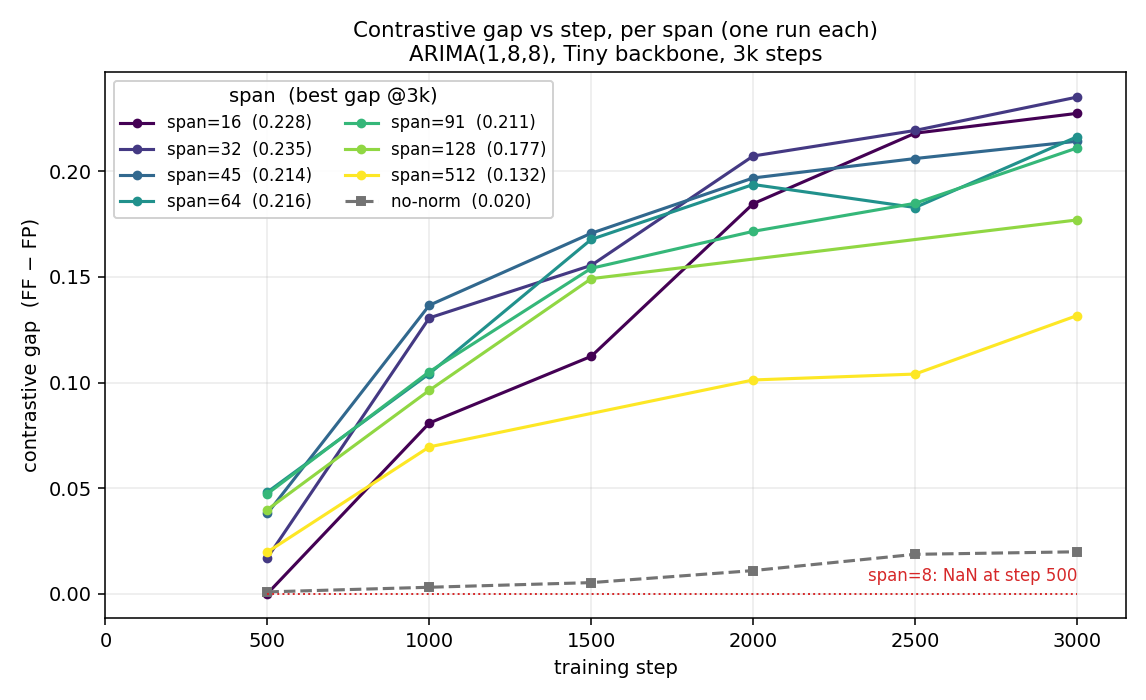
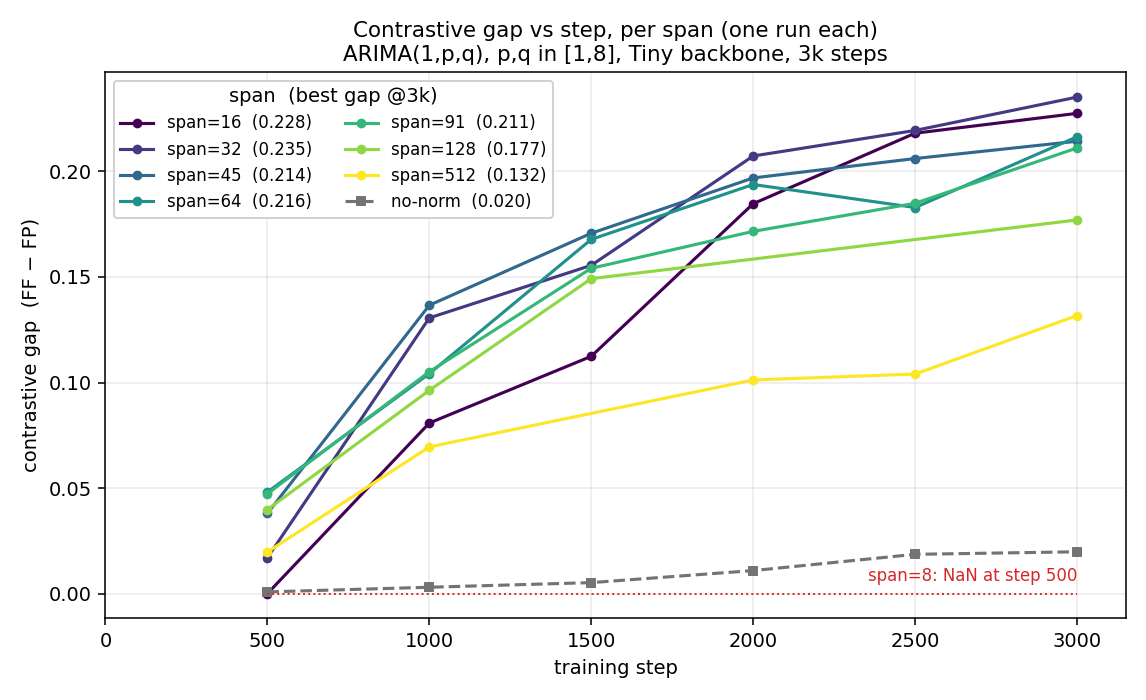
report(revnorm): correct span=8 NaN mechanism + winner framing (independent review)
The independent reviewer read src/norm.py and src/arma.py and caught
errors neither the rewrite nor my own read found:
- span=8 NaN is NOT "EMA variance collapse / divide-by-~0" (the std
  division is eps-clamped). True cause: inv_decay=1/decay overflows once
  decay=(1-a)^t underflows to 0 (t~2961 for span=8, inside T=4096);
  span=16 survives because its threshold t~5947 > 4096. Corrected in
  body, notes, and "what we learned".
- removed "~2.7x slower wall-clock" for span=512 — it's GPU-contention
  (EMA cumsum is O(T) independent of span), not a span cost.
- "ranking stable by 1.5k" was false (16: last->2nd; 45: 1st->4th).
- reframed single-seed "marginal winner / use span=32" to "use a
  sub-patch span; 16-91 plateau is indistinguishable at 1 seed".
- plot titles + driver banner said "ARIMA(1,8,8)"; data is a mixture
  ARIMA(1,p,q) p,q in [1,8] (src/arma.py) — regenerated figures.
- minor: 0.007->0.0077; softened "smooth decline"/"climb steadily";
  moved log-buffering note out of the figure caption.

Changed region(s): [[0.3054, 0.06, 0.7941, 0.09]]

diff --git a/experiments/2026-04-12_revnorm-span-search/scripts/plot_span_sweep.py b/experiments/2026-04-12_revnorm-span-search/scripts/plot_span_sweep.py
@@ -120,7 +120,7 @@ def main():
     ax.set_xlabel("RevEWMNorm span  (smaller = faster EMA adaptation)")
     ax.set_ylabel("best contrastive gap @ 3k steps  (FF − FP)")
     ax.set_title(
-        "RevEWMNorm span sweep on ARIMA(1,8,8) — sub-patch span wins\n"
+        "RevEWMNorm span sweep on ARIMA(1,p,q), p,q in [1,8] — sub-patch span wins\n"
         "single run per span, 3k steps, Tiny backbone (W=16)",
         fontsize=11,
     )
@@ -166,7 +166,7 @@ def main():
     ax.set_ylabel("contrastive gap  (FF − FP)")
     ax.set_title(
         "Contrastive gap vs step, per span (one run each)\n"
-        "ARIMA(1,8,8), Tiny backbone, 3k steps",
+        "ARIMA(1,p,q), p,q in [1,8], Tiny backbone, 3k steps",
         fontsize=11,
     )
     ax.grid(True, alpha=0.25)

diff --git a/experiments/2026-04-12_revnorm-span-search/scripts/span_search.py b/experiments/2026-04-12_revnorm-span-search/scripts/span_search.py
@@ -29,7 +29,7 @@ LOSS_SPEC = SimpleNamespace(train_configuration={
 })
 
 span_label = f"span={span}" if span is not None else "no_norm"
-print(f"Tiny W={W}: H={H}, L={L}, ARIMA(1,8,8), {span_label}, bs={BS}", flush=True)
+print(f"Tiny W={W}: H={H}, L={L}, ARIMA(1,p,q) p,q in [1,8], {span_label}, bs={BS}", flush=True)
 
 model = ConfigurableModel(
     C=C, H=H, W=W, encoder_type="gru", num_layers=L,

diff --git a/experiments/2026-04-12_revnorm-span-search/notes/execution-log.md b/experiments/2026-04-12_revnorm-span-search/notes/execution-log.md
@@ -34,9 +34,14 @@ gap-vs-step curves simply skip the missing points for those two spans.
 ## span=8 divergence
 
 `span=8` produced `loss=nan` from the very first validation at step 500 and
-`best=-inf` throughout (`logs/span_8.log`). With a span of 8 the EMA window is
-so short its running variance collapses toward zero on the near-constant
-stretches of integrated ARIMA, and the normalize-by-std step divides by ~0.
-This is consistent with the project rule of fixing divergence via
-data/normalization rather than grad-clip: the fix here is "don't use a span
-that small", not clipping.
+`best=-inf` throughout (`logs/span_8.log`). The cause is **numerical, not a
+variance collapse**: the normalize-by-std step is eps-clamped
+(`x / stdev.clamp(min=1e-5)` in `src/norm.py`), so it cannot divide by ~0. What
+overflows is the EMA cumsum trick — `inv_decay = 1/decay` with `decay = (1−α)^t`
+— whose `decay` underflows to 0 around t≈2961 for span=8 (α=0.222), giving
+`inv_decay = +inf` and then `inf × 0 = NaN` partway through the T=4096 sequence
+(the module's own NOTE in `src/norm.py` warns of this overflow). span=16's
+underflow threshold is t≈5947, past T=4096 — which is exactly why span=16 trains
+and span=8 NaNs. The practical fix is the same ("don't use a span that small"),
+but the failure is an fp64 limit of the cumsum implementation at T=4096, not the
+contrastive objective diverging, and is unrelated to grad-clip.
